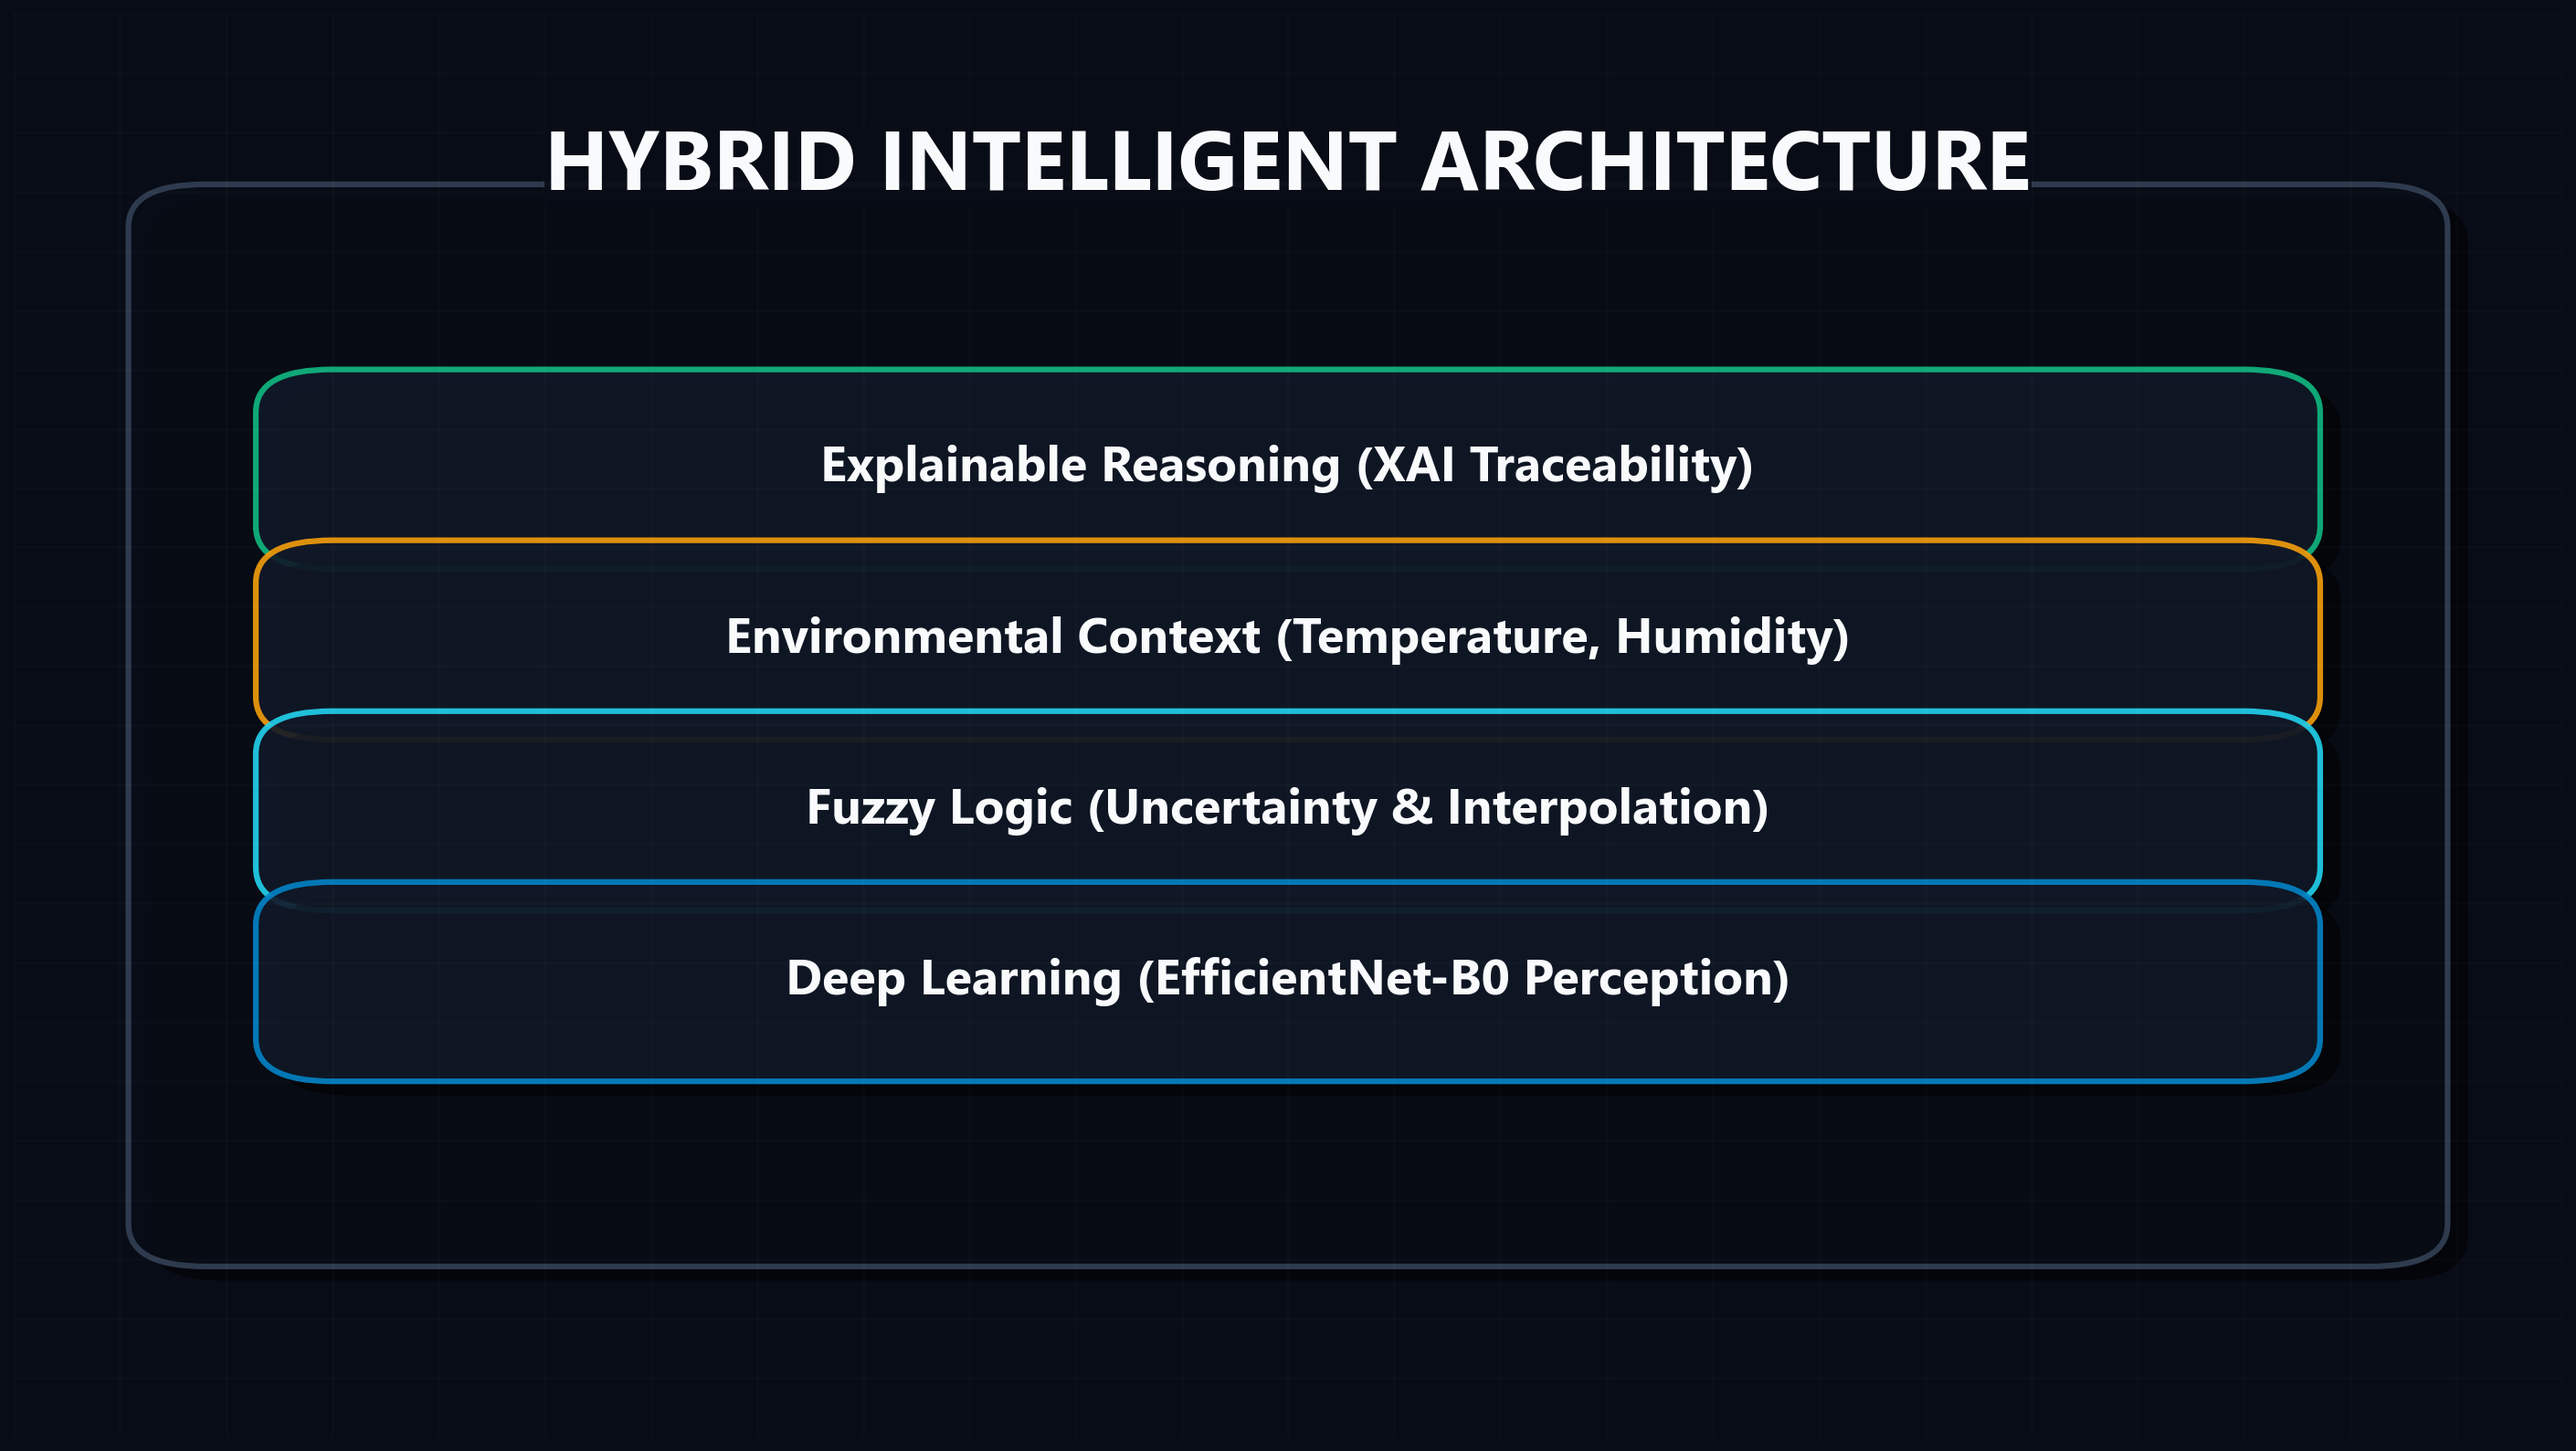
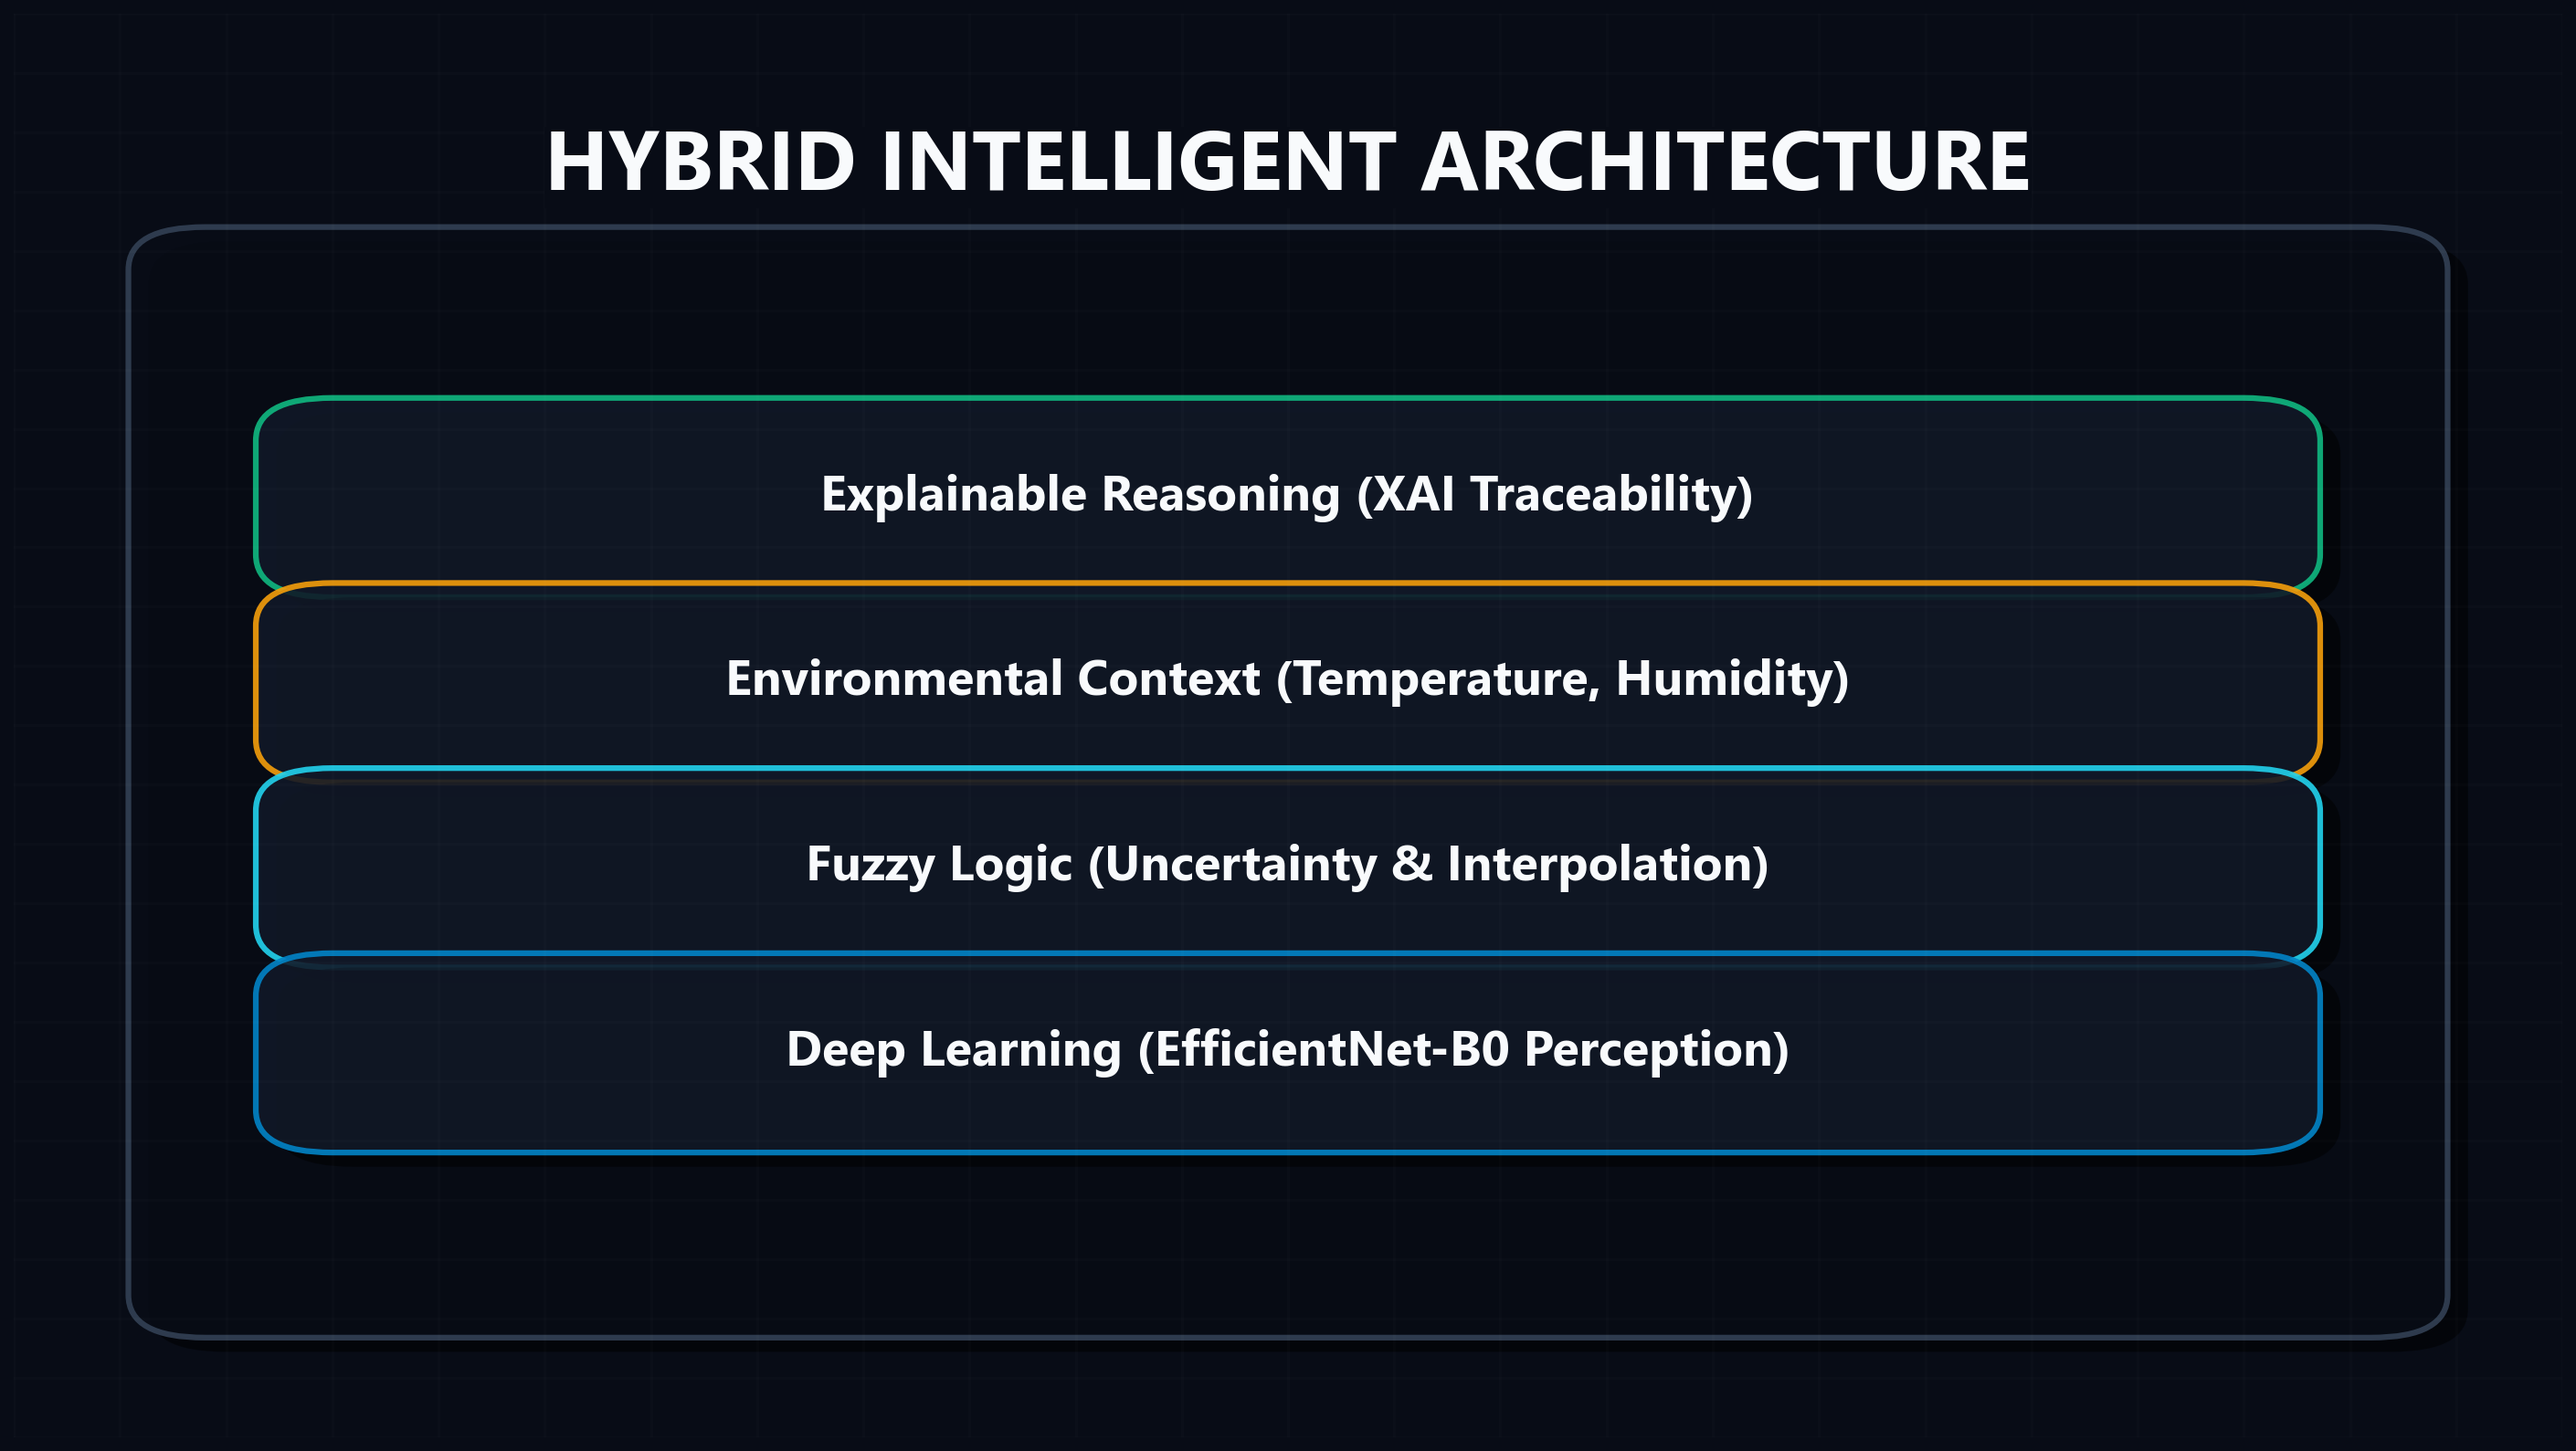
style: Comprehensive visual layout review and minor overlap fixes in remaining figures

diff --git a/scripts/generate_academic_figures.py b/scripts/generate_academic_figures.py
@@ -246,15 +246,15 @@ def fig_07_contextual_alert():
     
     draw_glass_box(ax, 0.5, 0.75, 0.45, 0.12, title="Visual Severity Index (VSI)", text="MILD (Score: 30)", border="#3b82f6")
     
-    draw_glow_arrow(ax, 0.5, 0.65, 0.25, 0.52)
-    draw_glow_arrow(ax, 0.5, 0.65, 0.75, 0.52)
+    draw_glow_arrow(ax, 0.5, 0.65, 0.25, 0.55)
+    draw_glow_arrow(ax, 0.5, 0.65, 0.75, 0.55)
     
     draw_glass_box(ax, 0.25, 0.42, 0.4, 0.18, title="CASE A: Low ERI", text="Humidity: 50% | Temp: 22°C", border="#10b981", title_color="#10b981")
-    draw_glow_arrow(ax, 0.25, 0.30, 0.25, 0.20)
+    draw_glow_arrow(ax, 0.25, 0.29, 0.25, 0.21)
     draw_glass_box(ax, 0.25, 0.10, 0.35, 0.14, title="ATTENTION", text="Regular Monitoring", border=WARNING_ORANGE, title_color=WARNING_ORANGE)
     
     draw_glass_box(ax, 0.75, 0.42, 0.4, 0.18, title="CASE B: High ERI", text="Humidity: 90% | Temp: 35°C", border=DANGER_RED, title_color=DANGER_RED)
-    draw_glow_arrow(ax, 0.75, 0.30, 0.75, 0.20)
+    draw_glow_arrow(ax, 0.75, 0.29, 0.75, 0.21)
     draw_glass_box(ax, 0.75, 0.10, 0.35, 0.14, title="DANGER", text="Immediate Action Required", border=DANGER_RED, title_color=DANGER_RED)
 
     plt.savefig(os.path.join(OUTPUT_DIR, "fig_07_contextual_alert.png"), bbox_inches='tight')
@@ -341,7 +341,7 @@ def fig_11_hybrid_ai_architecture():
     fig, ax = create_figure()
     draw_title(ax, "HYBRID INTELLIGENT ARCHITECTURE")
     
-    draw_glass_box(ax, 0.5, 0.5, 0.85, 0.7, border="#334155", bg=BG_COLOR)
+    draw_glass_box(ax, 0.5, 0.46, 0.85, 0.72, border="#334155", bg=BG_COLOR)
     
     stack = [
         ("Explainable Reasoning (XAI Traceability)", EMERALD),
@@ -350,8 +350,8 @@ def fig_11_hybrid_ai_architecture():
         ("Deep Learning (EfficientNet-B0 Perception)", "#0284c7")
     ]
     
-    y_start = 0.68
-    y_gap = 0.12
+    y_start = 0.66
+    y_gap = 0.13
     for i, (text, color) in enumerate(stack):
         draw_glass_box(ax, 0.5, y_start - i*y_gap, 0.75, 0.08, text=text, border=color, bg=BOX_BG, fontsize=26)
 
